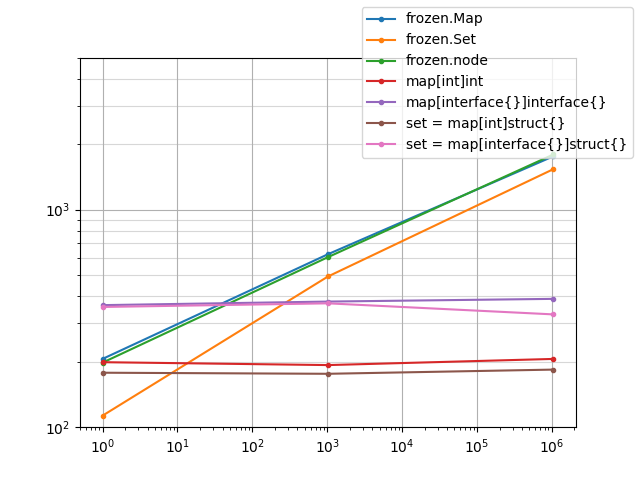
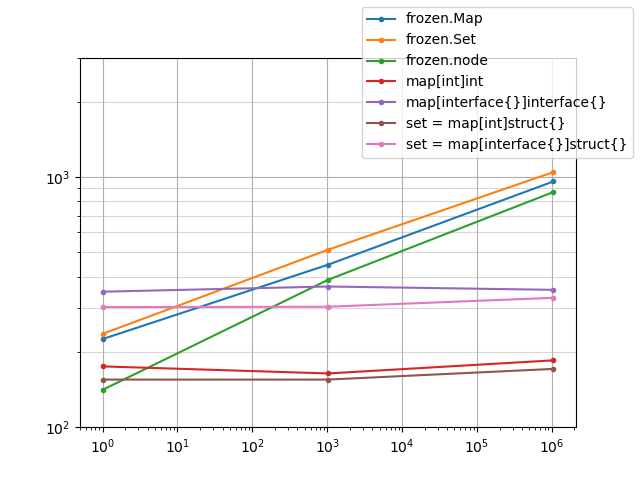
Updated stats

diff --git a/README.md b/README.md
@@ -15,10 +15,8 @@ Map and Set both use a hashed array trie.
 
 The following benchmarks test the base node implementation against several other
 key-value map implementations. All implementations are tested for insertions
-against an empty map and a map prepopulated with one million elements, except
-for github.com/mediocregopher/seq, which only has 10k elements prepopulated to
-avoid timeouts. In order of appearance in the benchmark, the implementations are
-as follows:
+against an empty map and a map prepopulated with one million elements. In order
+of appearance in the benchmark, the implementations are as follows:
 
 | Benchmark       | Type                           |
 | --------------- | ------------------------------ |
@@ -34,29 +32,32 @@ In all cases, ints are mapped to ints.
 
 ```bash
 $ go test -run ^$ -cpuprofile cpu.prof -memprofile mem.prof -benchmem -bench ^BenchmarkInsert ./pkg/frozen/
-⋮
-BenchmarkInsertMapInt0-8             5247402           199 ns/op          51 B/op           0 allocs/op
-BenchmarkInsertMapInt1k-8            5994780           193 ns/op          46 B/op           0 allocs/op
-BenchmarkInsertMapInt1M-8            6461139           206 ns/op          51 B/op           0 allocs/op
-BenchmarkInsertMapInterface0-8       5600690           364 ns/op          73 B/op           2 allocs/op
-BenchmarkInsertMapInterface1k-8      5510244           378 ns/op          73 B/op           2 allocs/op
-BenchmarkInsertMapInterface1M-8      5364372           389 ns/op          80 B/op           2 allocs/op
-BenchmarkInsertFrozenMap0-8          5728576           206 ns/op         128 B/op           4 allocs/op
-BenchmarkInsertFrozenMap1k-8         1948087           624 ns/op         495 B/op           8 allocs/op
-BenchmarkInsertFrozenMap1M-8          883378          1760 ns/op         759 B/op          11 allocs/op
-BenchmarkInsertFrozenNode0-8         5796955           198 ns/op         128 B/op           4 allocs/op
-BenchmarkInsertFrozenNode1k-8        1938098           605 ns/op         495 B/op           8 allocs/op
-BenchmarkInsertFrozenNode1M-8         947007          1794 ns/op         759 B/op          11 allocs/op
-BenchmarkInsertSetInt0-8             5966091           178 ns/op          26 B/op           0 allocs/op
-BenchmarkInsertSetInt1k-8            6793104           176 ns/op          25 B/op           0 allocs/op
-BenchmarkInsertSetInt1M-8            6985861           184 ns/op          26 B/op           0 allocs/op
-BenchmarkInsertSetInterface0-8       3895648           357 ns/op          51 B/op           1 allocs/op
-BenchmarkInsertSetInterface1k-8      4016401           371 ns/op          49 B/op           1 allocs/op
-BenchmarkInsertSetInterface1M-8      5609694           330 ns/op          40 B/op           1 allocs/op
-BenchmarkInsertFrozenSet0-8         10061632           113 ns/op          88 B/op           2 allocs/op
-BenchmarkInsertFrozenSet1k-8         2387151           493 ns/op         455 B/op           6 allocs/op
-BenchmarkInsertFrozenSet1M-8          966304          1536 ns/op         719 B/op           9 allocs/op
-⋮
+goos: linux
+goarch: amd64
+pkg: github.com/marcelocantos/frozen/pkg/frozen
+BenchmarkInsertMapInt0-24           	 8532830	       175 ns/op	      72 B/op	       0 allocs/op
+BenchmarkInsertMapInt1k-24          	10379329	       164 ns/op	      60 B/op	       0 allocs/op
+BenchmarkInsertMapInt1M-24          	 6760242	       185 ns/op	      78 B/op	       0 allocs/op
+BenchmarkInsertMapInterface0-24     	 3579843	       348 ns/op	     152 B/op	       2 allocs/op
+BenchmarkInsertMapInterface1k-24    	 3675631	       365 ns/op	     148 B/op	       2 allocs/op
+BenchmarkInsertMapInterface1M-24    	 6517272	       354 ns/op	     115 B/op	       2 allocs/op
+BenchmarkInsertFrozenMap0-24        	 5443401	       225 ns/op	     240 B/op	       6 allocs/op
+BenchmarkInsertFrozenMap1k-24       	 2553954	       446 ns/op	     635 B/op	      10 allocs/op
+BenchmarkInsertFrozenMap1M-24       	 1263691	       960 ns/op	     954 B/op	      13 allocs/op
+BenchmarkInsertFrozenNode0-24       	 8220901	       141 ns/op	     144 B/op	       4 allocs/op
+BenchmarkInsertFrozenNode1k-24      	 3294789	       388 ns/op	     539 B/op	       8 allocs/op
+BenchmarkInsertFrozenNode1M-24      	 1316443	       871 ns/op	     858 B/op	      11 allocs/op
+BenchmarkInsertSetInt0-24           	12816358	       155 ns/op	      29 B/op	       0 allocs/op
+BenchmarkInsertSetInt1k-24          	12738687	       155 ns/op	      29 B/op	       0 allocs/op
+BenchmarkInsertSetInt1M-24          	 7613054	       171 ns/op	      39 B/op	       0 allocs/op
+BenchmarkInsertSetInterface0-24     	 5121948	       302 ns/op	      58 B/op	       1 allocs/op
+BenchmarkInsertSetInterface1k-24    	 5051988	       303 ns/op	      58 B/op	       1 allocs/op
+BenchmarkInsertSetInterface1M-24    	 3172472	       329 ns/op	      62 B/op	       1 allocs/op
+BenchmarkInsertFrozenSet0-24        	 5400745	       236 ns/op	     296 B/op	       6 allocs/op
+BenchmarkInsertFrozenSet1k-24       	 2460313	       512 ns/op	     787 B/op	      11 allocs/op
+BenchmarkInsertFrozenSet1M-24       	 1132215	      1046 ns/op	    1106 B/op	      14 allocs/op
+PASS
+ok  	github.com/marcelocantos/frozen/pkg/frozen	65.909s
 ```
 
 ![](assets/benchmarks.png)
